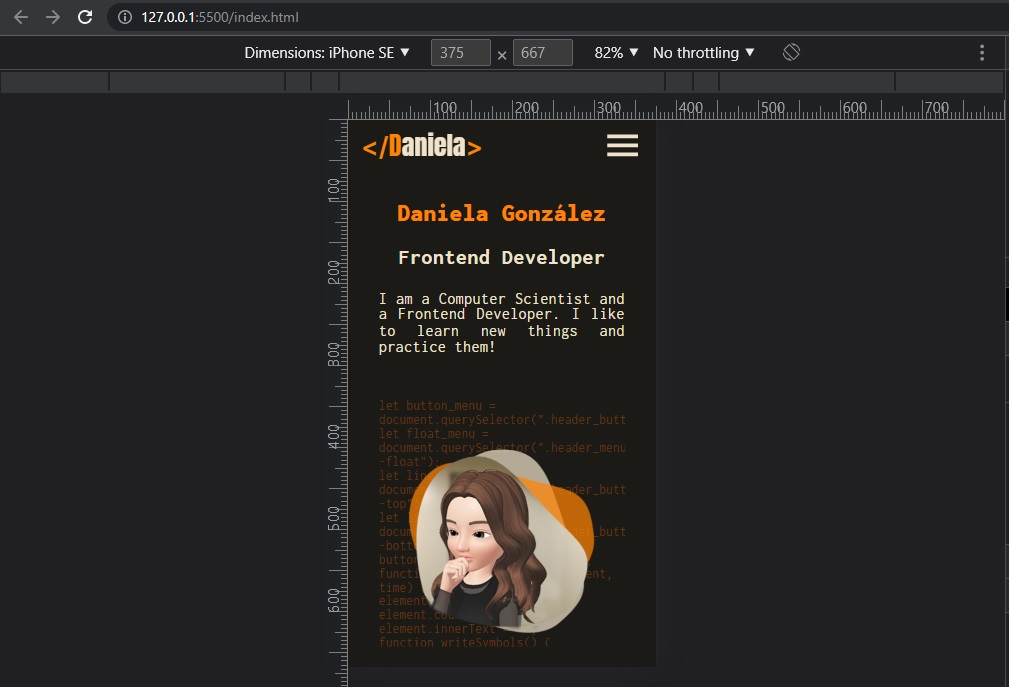
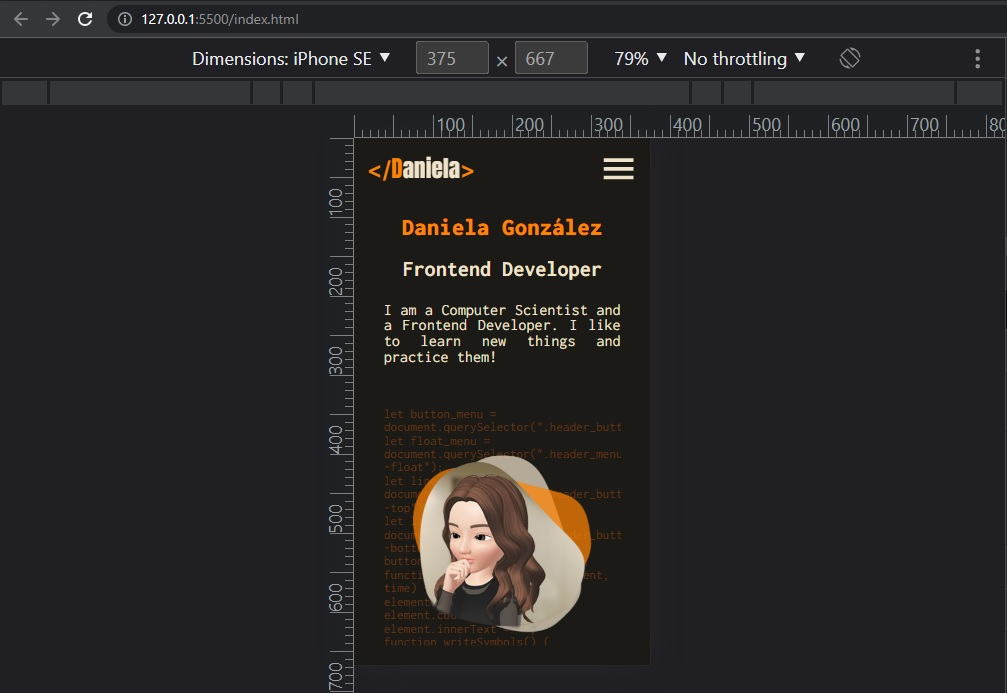
Fix header height and delete some unnecessary class

Changed region(s): [[0.0, 0.0, 1.0, 1.0], [0.5541, 0.7031, 0.6157, 0.7336], [0.5849, 0.7642, 0.6157, 0.7948]]

diff --git a/css/style.css b/css/style.css
@@ -8,7 +8,7 @@
   --font-family-logo-sec: 'Inter', sans-serif;
   --p-size: 1rem;
   --p-size-small: 0.1rem;
-  --header-height: 4rem;
+  --header-height: 5rem;
 }
 
 html,
@@ -201,32 +201,6 @@ img {
 .presentation-container {
   width: 80%;
   text-align: center;
-}
-
-.container-buttons-headline {
-  display: flex;
-  flex-flow: row wrap;
-  justify-content: space-around;
-  padding: 1rem 0 0 0;
-  width: 100%;
-}
-
-.container-buttons-headline button:first-child {
-  font-size: var(--p-size);
-  background-color: var(--color-btn-bg);
-  color: var(--color-pri-text);
-  width: 40%;
-  height: 3rem;
-  border: 1px solid var(--color-btn-bg);
-}
-
-.container-buttons-headline button:last-child {
-  font-size: var(--p-size);
-  background-color: var(--color-base-bg);
-  color: var(--color-pri-text);
-  width: 40%;
-  height: 3rem;
-  border: 1px solid var(--color-pri-text);
 }
 
 .navbar a:hover {
